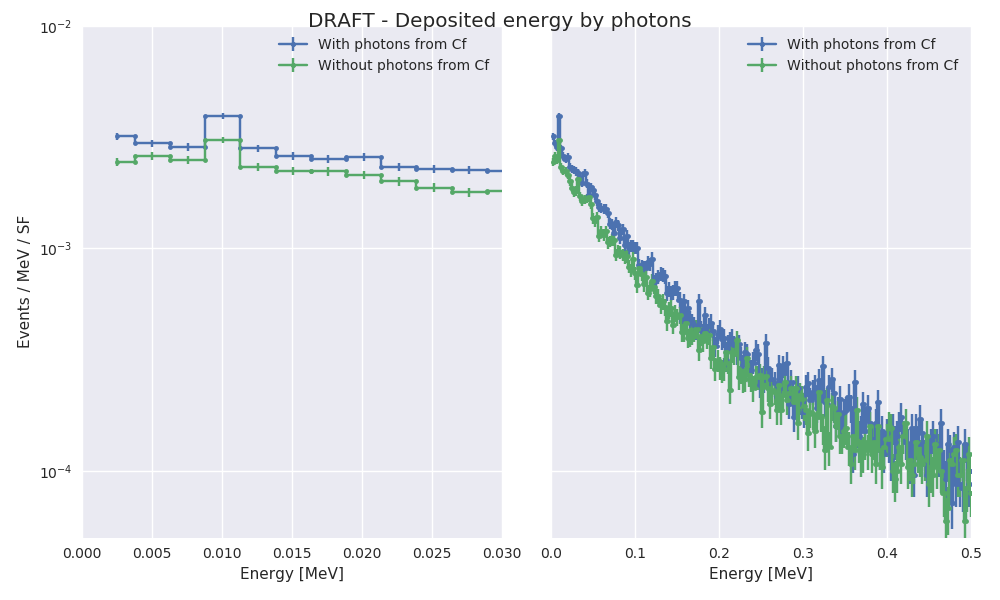
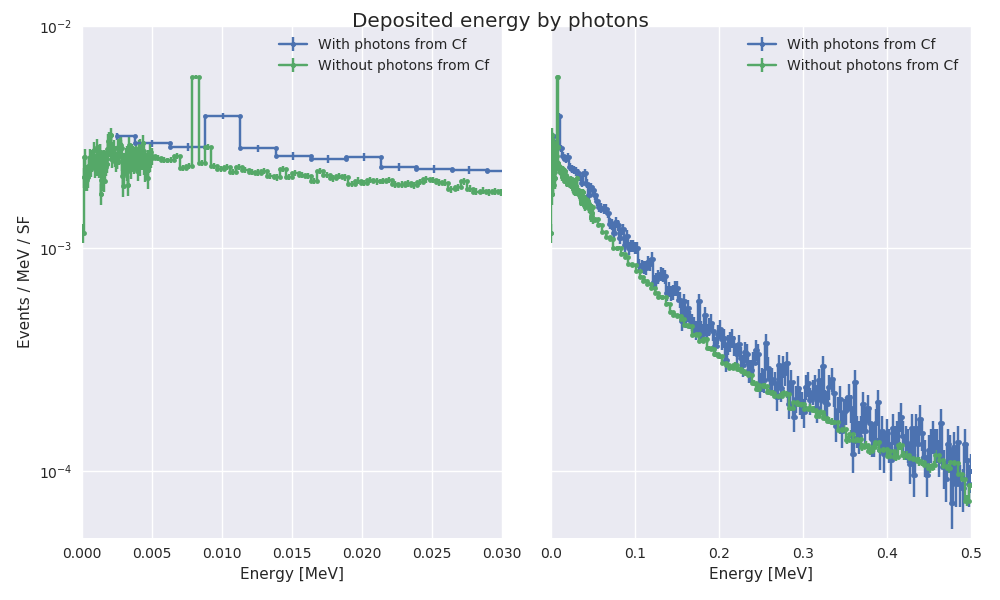
mcnp con y sin fotons del cf

diff --git a/exp_skccd_UnThinned/mcnp/grafica_diff_fot.py b/exp_skccd_UnThinned/mcnp/grafica_diff_fot.py
@@ -64,7 +64,7 @@ if __name__ == '__main__':
             ax.legend()
 
     axs[0].set_ylabel(ylabel)
-    fig.suptitle('DRAFT - Deposited energy by photons')
+    fig.suptitle('Deposited energy by photons')
     nom_graf = 'espectros_photons_from_Cf.png'
     fig.tight_layout()
     fig.savefig(nom_graf)
